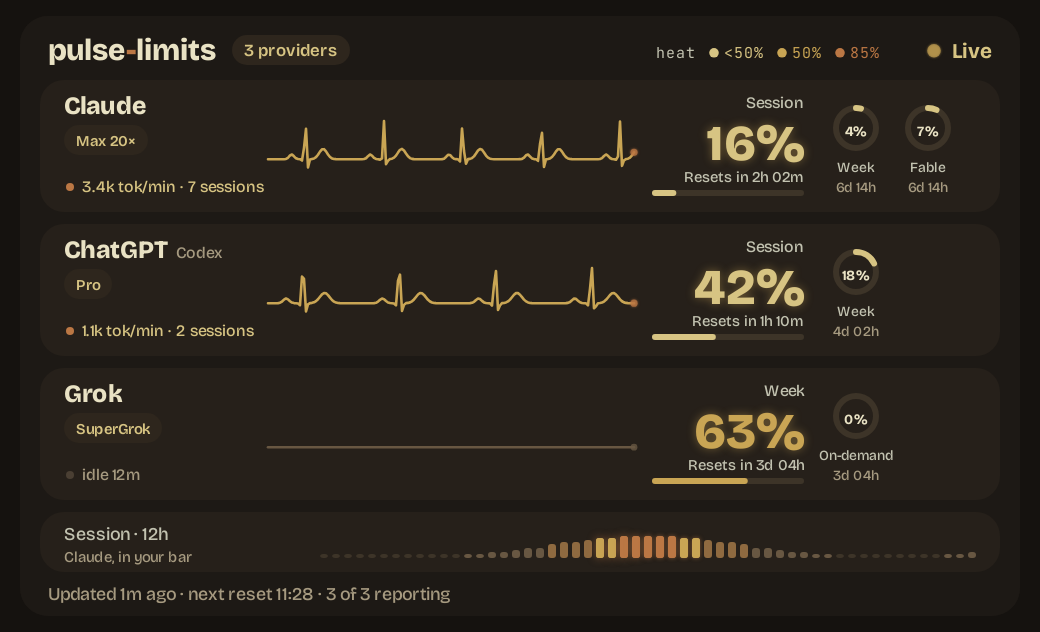
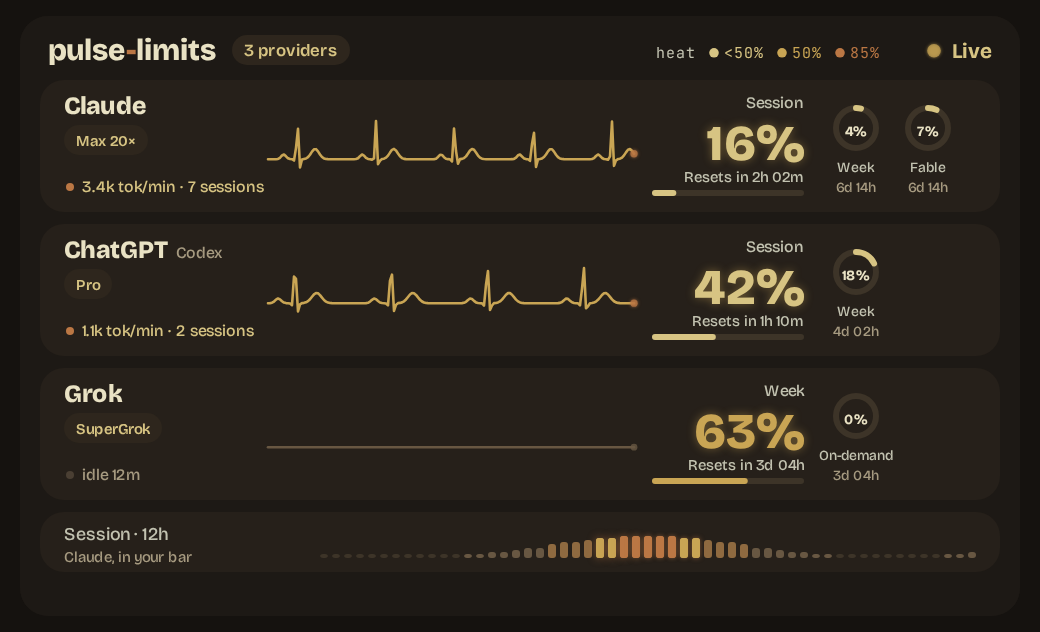
feat(panel): no freshness line at the bottom
The "Updated … ago · next reset … · N of M reporting" line goes. The bottom row now holds only the no-reading hint and extra-usage credits, and the one-provider orbit, ember and herbarium layouts reach down into the space it left. Screenshots regenerated.

diff --git a/panel.html b/panel.html
@@ -125,10 +125,6 @@
   const planBadge = () => (D.providers || []).length > 1 && D.provider ? D.provider.toUpperCase() + (D.plan ? ' · ' + D.plan : '') : D.plan;
   const ageSec = () => Math.max(0, Math.floor(Date.now() / 1000 - D.fetched));
   const fresh = () => alive && !D.status && ageSec() < 120;
-  function nextReset() {
-    const now = Date.now(), ts = D.windows.map(w => Date.parse(w.resets)).filter(v => v > now);
-    return ts.length ? hhmm(Math.min(...ts)) : '?';
-  }
   const bpmOf = a => a.tok > 0 ? Math.min(180, 60 + 60 * Math.log10(1 + a.tok / 100)) : 0;   // nothing streaming: flat line
   function bpmNow() {
     if (!alive) return 0;
@@ -308,19 +304,9 @@
   }
   // a lane's headline window in a word: Session, Week (qualified windows carry their word: SESSION or 7D)
   const laneWord = h => { const w = h.win; if (!w) return 'Session'; const u = w.prov ? (w.word === '7D' ? 'WEEK' : w.word) : w.label; return niceWord(u); };
-  // the soonest reset across every provider on the monitor (one provider: its own)
-  function nextResetAll() {
-    const now = Date.now(), ws = [].concat(...(D.providers || []).map(p => p.windows || []), D.windows);
-    const ts = ws.map(w => Date.parse(w.resets)).filter(v => v > now);
-    return ts.length ? hhmm(Math.min(...ts)) : '?';
-  }
-  const reporting = () => (D.providers || []).filter(p => (p.windows || []).length).length;
+  // the bottom line stays empty while readings come in: it carries only the no-reading hint and extra-usage credits
   function footer(color, t) {
-    const n = (D.providers || []).length;
-    let s = alive ? 'Updated ' + short(ageSec()).toLowerCase() + ' ago · next reset ' + (lanes.length ? nextResetAll() : nextReset())
-                  : sentence(D.hint) || 'No reading yet';
-    if (alive && lanes.length) s += ' · ' + reporting() + ' of ' + n + ' reporting';
-    txt(s, 14, H - 8, f(500, 9), color);
+    if (!alive) txt(sentence(D.hint) || 'No reading yet', 14, H - 8, f(500, 9), color);
     if (D.credits) {
       const l = D.credits.label ? sentence(D.credits.label) : 'Credits';
       txt(l + ' ' + Number(D.credits.used).toFixed(2) + (D.credits.currency ? ' ' + D.credits.currency : ''), W - 14, H - 8, f(600, 9), color, 'right');
@@ -496,8 +482,8 @@
 
     // the heartbeat, across the bottom
     const lab = actText(act);
-    if (lab !== null) { dot(15, 233, 2.3, OP.rust); txt(lab, 22, 236, f(500, 9.5), OP.sand); }
-    emberTrace(ECG, 12, 262, 22, { line: OP.gold, dot: OP.rust, dim: OP.line2, idle: !alive || (act.tok !== null && !busy()) }, t);
+    if (lab !== null) { dot(15, 241, 2.3, OP.rust); txt(lab, 22, 244, f(500, 9.5), OP.sand); }
+    emberTrace(ECG, 12, 270, 22, { line: OP.gold, dot: OP.rust, dim: OP.line2, idle: !alive || (act.tok !== null && !busy()) }, t);
     footer(OP.sub, t);
   }};
   function orbitLanes(t) {
@@ -582,24 +568,24 @@
     const nr = Math.min(others.length, 4), small = nr > 2, cw = small ? 74 : 96;
     others.slice(0, nr).forEach((w, i) => {
       const cx0 = 10 + i * (cw + 8), pct = Math.round(w.pct);
-      card(cx0, 156, cw, 106, 12, EP.card);
+      card(cx0, 156, cw, 124, 12, EP.card);
       txt(nice(w.label), cx0 + 10, 174, fitFont([nice(w.label)], [f(500, 10), f(500, 8.5), f(500, 7.5)], cw - 16), EP.body);
       if (small) {
-        gauge(cx0 + cw / 2, 212, 16, w, pct, EP, w.status ? EP.muted : etone(pct), f(700, 10));
-        txt(w.status ? sentence(w.status) : later(w), cx0 + cw / 2, 248, f(500, 8.5), w.status ? EP.bad : EP.body, 'center');
+        gauge(cx0 + cw / 2, 221, 16, w, pct, EP, w.status ? EP.muted : etone(pct), f(700, 10));
+        txt(w.status ? sentence(w.status) : later(w), cx0 + cw / 2, 257, f(500, 8.5), w.status ? EP.bad : EP.body, 'center');
       } else {
-        gauge(cx0 + 30, 218, 18, w, pct, EP, w.status ? EP.muted : etone(pct), f(700, 11));
-        if (w.status) txt(sentence(w.status), cx0 + cw / 2, 252, f(500, 8), EP.bad, 'center');
-        else { txt(later(w), cx0 + 54, 215, f(500, 9), EP.body); txt('reset', cx0 + 54, 227, f(500, 9), EP.body); }
+        gauge(cx0 + 30, 227, 18, w, pct, EP, w.status ? EP.muted : etone(pct), f(700, 11));
+        if (w.status) txt(sentence(w.status), cx0 + cw / 2, 261, f(500, 8), EP.bad, 'center');
+        else { txt(later(w), cx0 + 54, 224, f(500, 9), EP.body); txt('reset', cx0 + 54, 236, f(500, 9), EP.body); }
       }
     });
     const tx = 10 + nr * (cw + 8), tw0 = 490 - tx;
-    card(tx, 156, tw0, 106, 12, EP.card);
+    card(tx, 156, tw0, 124, 12, EP.card);
     txt('Session · 12h', tx + 12, 174, f(500, 10), EP.body);
-    const hot = bars(tx + 12, 242, tw0 - 24, 54, 4, 2, ecoal, EP.track, 1.5);
-    hot.filter(b => b.v >= 60).forEach(b => { ctx.shadowColor = 'rgba(187,119,68,.6)'; ctx.shadowBlur = 5 + 6 * wave(t + b.x * 40, 3); ctx.fillStyle = b.c; rr(b.x, b.top, 4, 242 - b.top, 1.5); ctx.fill(); ctx.shadowBlur = 0; });
+    const hot = bars(tx + 12, 260, tw0 - 24, 66, 4, 2, ecoal, EP.track, 1.5);
+    hot.filter(b => b.v >= 60).forEach(b => { ctx.shadowColor = 'rgba(187,119,68,.6)'; ctx.shadowBlur = 5 + 6 * wave(t + b.x * 40, 3); ctx.fillStyle = b.c; rr(b.x, b.top, 4, 260 - b.top, 1.5); ctx.fill(); ctx.shadowBlur = 0; });
     embers(hot, t);
-    txt('−12h', tx + 12, 255, m(400, 7.5), EP.body); txt('now', tx + tw0 - 12, 255, m(400, 7.5), EP.body, 'right');
+    txt('−12h', tx + 12, 273, m(400, 7.5), EP.body); txt('now', tx + tw0 - 12, 273, m(400, 7.5), EP.body, 'right');
     footer(EP.muted, t);
   }};
   function emberLanes(t) {
@@ -661,23 +647,23 @@
     const nr = Math.min(others.length, 4), small = nr > 2, cw = small ? 76 : 110;
     others.slice(0, nr).forEach((w, i) => {
       const cx0 = 10 + i * (cw + 7), pct = Math.round(w.pct), c = w.status ? HP.sub : pct >= 60 ? htone(pct) : i % 2 ? HP.rust : HP.moss;
-      sheet(cx0, 166, cw, 98, 11);
+      sheet(cx0, 166, cw, 114, 11);
       txt(nice(w.label).toUpperCase(), cx0 + 11, 182, m(500, small ? 6.5 : 7.5), HP.sub, 'left', 1.1);
-      if (small) { gauge(cx0 + cw / 2, 216, 16, w, pct, HP, c, f(800, 10)); txt(w.status ? sentence(w.status) : later(w), cx0 + cw / 2, 251, f(600, 8.5), w.status ? HP.bad : HP.ink, 'center'); }
+      if (small) { gauge(cx0 + cw / 2, 224, 16, w, pct, HP, c, f(800, 10)); txt(w.status ? sentence(w.status) : later(w), cx0 + cw / 2, 259, f(600, 8.5), w.status ? HP.bad : HP.ink, 'center'); }
       else {
-        gauge(cx0 + 31, 220, 18, w, pct, HP, c, f(800, 11));
-        if (w.status) txt(sentence(w.status), cx0 + cw / 2, 254, f(600, 8), HP.bad, 'center');
-        else { txt(later(w), cx0 + 58, 217, f(700, 10), HP.ink); txt('reset', cx0 + 58, 229, f(400, 9), HP.body); }
+        gauge(cx0 + 31, 228, 18, w, pct, HP, c, f(800, 11));
+        if (w.status) txt(sentence(w.status), cx0 + cw / 2, 262, f(600, 8), HP.bad, 'center');
+        else { txt(later(w), cx0 + 58, 225, f(700, 10), HP.ink); txt('reset', cx0 + 58, 237, f(400, 9), HP.body); }
       }
     });
     const tx = 10 + nr * (cw + 7), tw0 = 490 - tx;
-    sheet(tx, 166, tw0, 98, 11);
+    sheet(tx, 166, tw0, 114, 11);
     txt('SESSION · 12H', tx + 12, 182, m(500, 7.5), HP.sub, 'left', 1.4);
     const rise = .93 + .07 * wave(t, 3);
-    bars(tx + 12, 246, tw0 - 24, 54, 4, 2, v => v >= 60 ? HP.rust : HP.olive, HP.border, 1.5)
-      .filter(b => b.v >= 60).forEach(b => { ctx.fillStyle = HP.card; rr(b.x - .5, b.top - 1, 5, (246 - b.top) * (1 - rise) + 1, 1.5); ctx.fill(); });
-    ctx.fillStyle = HP.border; ctx.fillRect(tx + 12, 246, tw0 - 24, 1);
-    txt('−12h', tx + 12, 257, m(400, 7), HP.sub); txt('now', tx + tw0 - 12, 257, m(400, 7), HP.sub, 'right');
+    bars(tx + 12, 262, tw0 - 24, 66, 4, 2, v => v >= 60 ? HP.rust : HP.olive, HP.border, 1.5)
+      .filter(b => b.v >= 60).forEach(b => { ctx.fillStyle = HP.card; rr(b.x - .5, b.top - 1, 5, (262 - b.top) * (1 - rise) + 1, 1.5); ctx.fill(); });
+    ctx.fillStyle = HP.border; ctx.fillRect(tx + 12, 262, tw0 - 24, 1);
+    txt('−12h', tx + 12, 273, m(400, 7), HP.sub); txt('now', tx + tw0 - 12, 273, m(400, 7), HP.sub, 'right');
     footer(HP.body, t);
   }};
   function herbLanes(t) {
